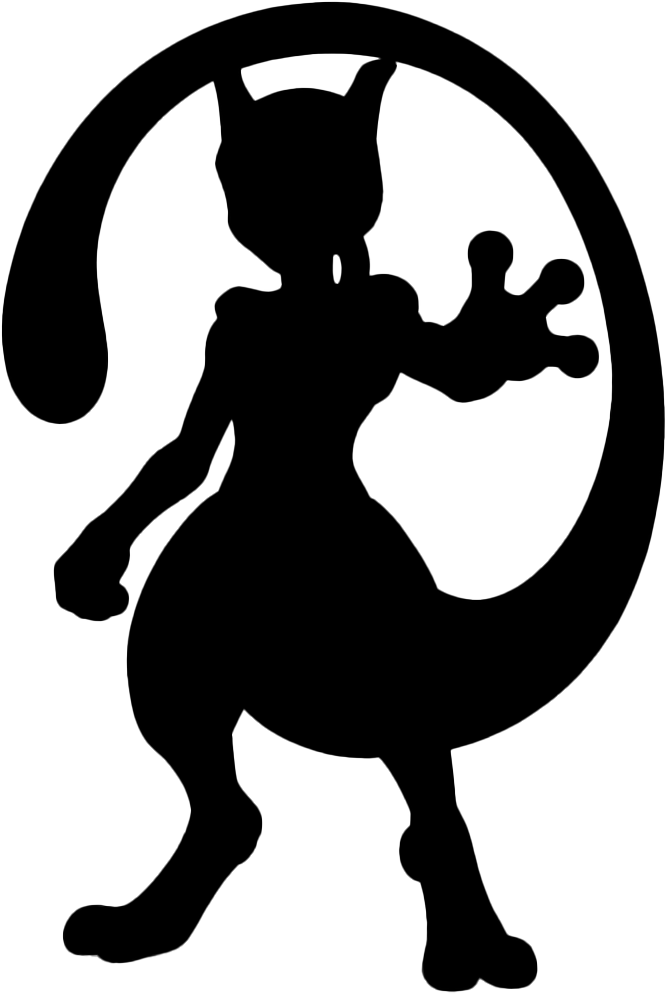
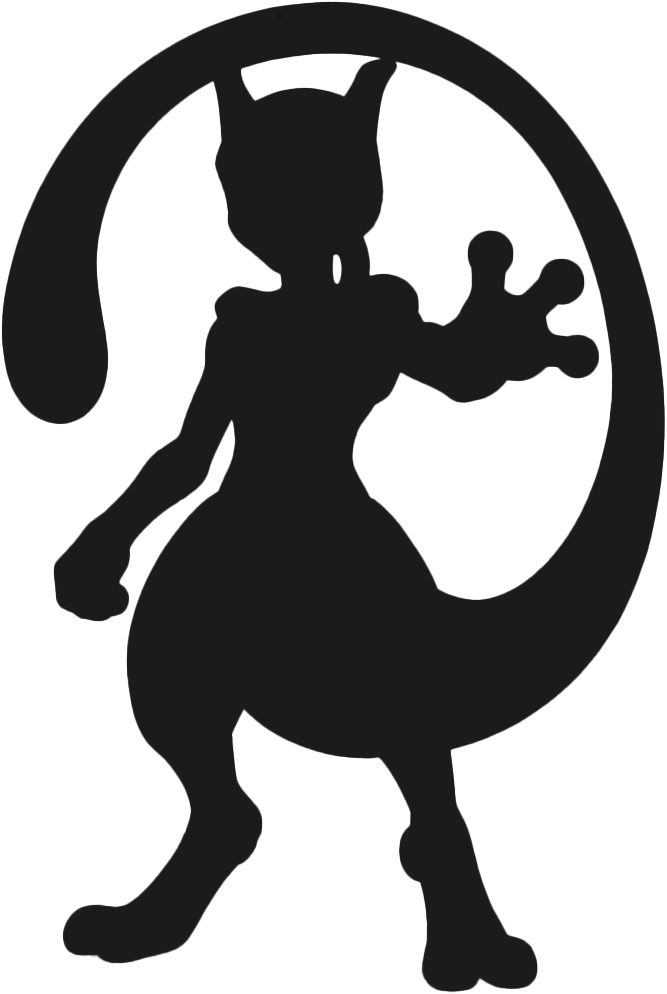
mewtwoo

diff --git a/src/pages/HomePage.tsx b/src/pages/HomePage.tsx
@@ -426,7 +426,7 @@ export const HomePage = () => {
                   position: "absolute",
                   inset: 0,
                   zIndex: 0,
-                  backgroundImage: `url(${isLight ? "/images/fond%20graphique/mewtwoo_gris.png" : "/images/fond%20graphique/mewtwoo.png"})`,
+                  backgroundImage: `url(${isLight ? "/images/fond%20graphique/mewtwoo_gris.png" : "/images/fond%20graphique/mewtwoo.png?v=2"})`,
                   backgroundSize: "contain",
                   backgroundPosition: "center",
                   backgroundRepeat: "no-repeat",
@@ -507,7 +507,7 @@ export const HomePage = () => {
                   position: "absolute",
                   inset: 0,
                   zIndex: 0,
-                  backgroundImage: `url(${isLight ? "/images/fond%20graphique/mewtwoo_gris.png" : "/images/fond%20graphique/mewtwoo.png"})`,
+                  backgroundImage: `url(${isLight ? "/images/fond%20graphique/mewtwoo_gris.png" : "/images/fond%20graphique/mewtwoo.png?v=2"})`,
                   backgroundSize: "contain",
                   backgroundPosition: "center",
                   backgroundRepeat: "no-repeat",

diff --git a/src/pages/ProductDetailPage.tsx b/src/pages/ProductDetailPage.tsx
@@ -595,7 +595,7 @@ const ProductDetailPageInner = () => {
                   position: "absolute",
                   inset: 0,
                   zIndex: 0,
-                  backgroundImage: `url(${isDark ? "/images/fond%20graphique/mewtwoo.png" : "/images/fond%20graphique/mewtwoo_gris.png"})`,
+                  backgroundImage: `url(${isDark ? "/images/fond%20graphique/mewtwoo.png?v=2" : "/images/fond%20graphique/mewtwoo_gris.png"})`,
                   backgroundSize: "contain",
                   backgroundRepeat: "no-repeat",
                   backgroundPosition: "center",
